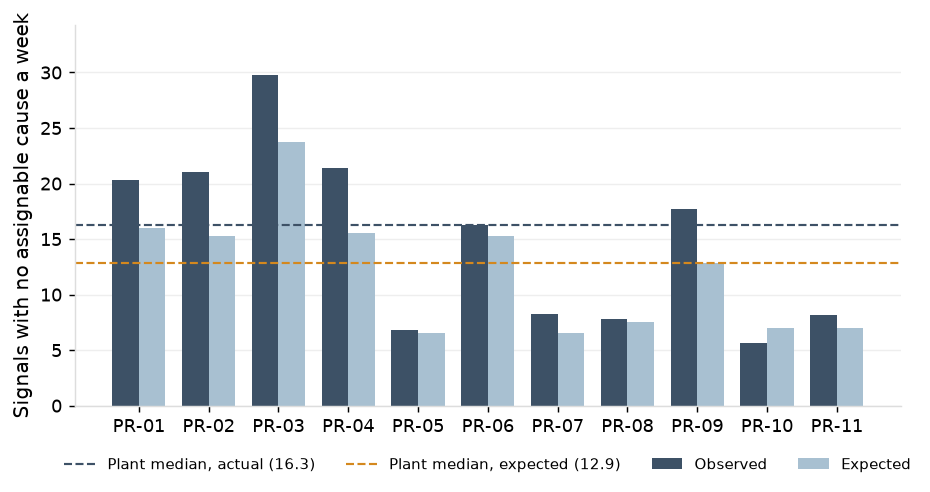
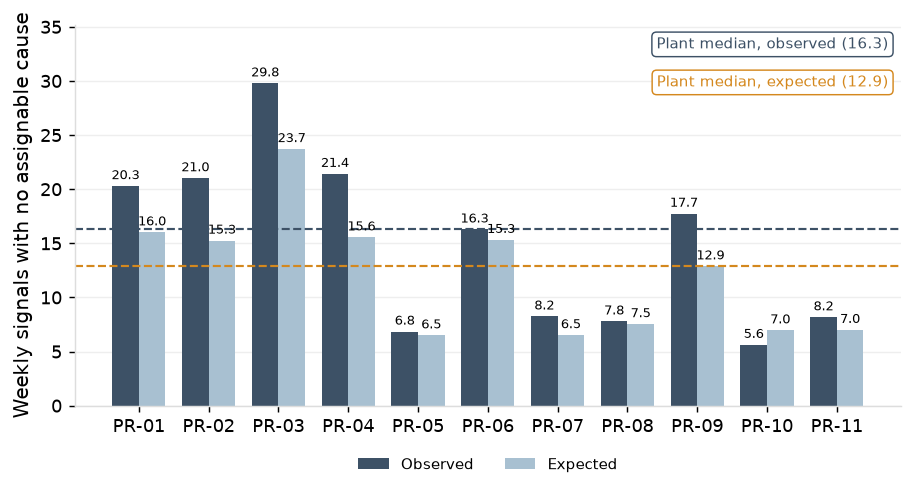
D1: retitled Review, 2.1 and 2.2 reworded, per-press medians as labels, Table 3 reordered

diff --git a/stamping_spc_program/docs/reports/control_chart_design.html b/stamping_spc_program/docs/reports/control_chart_design.html
@@ -1,6 +1,6 @@
 <!DOCTYPE html>
 <html lang="en"><head><meta charset="utf-8"><meta name="viewport" content="width=device-width, initial-scale=1">
-<title>Report: SPC Chart Design &amp; Performance</title><style>
+<title>Review: SPC Chart Design &amp; Performance</title><style>
 :root { --brand: #3D5166; --accent: #6B8FA8; --text: #222222; --muted: #555555; --rule: #DDDDDD; }
 * { box-sizing: border-box; }
 body { margin: 0; background: #F4F5F7; color: var(--text); font-family: "Segoe UI", Helvetica, Arial, sans-serif;
@@ -54,9 +54,9 @@ nav.toc a.sub { font-size: 12px; padding-left: 22px; }
 }
 @media print { nav.toc { display: none; } .layout { display: block; max-width: none; padding: 0; } .content { max-width: none; padding: 0; } }
 </style></head>
-<body><div class="page-header"><h1>Report: SPC Chart Design &amp; Performance</h1><div class="sub">Created by Brian Davis, 2026</div></div>
+<body><div class="page-header"><h1>Review: SPC Chart Design &amp; Performance</h1><div class="sub">Created by Brian Davis, 2026</div></div>
 <div class="layout"><nav class="toc"><div class="toc-title">Contents</div><a href="#overview">1. Active SPC Charts</a><a href="#design">2. Chart Design</a><a class="sub" href="#chart-types">2.1 Chart Types</a><a class="sub" href="#measurement">2.2 Measurement systems</a><a class="sub" href="#limits">2.3 Control Limits</a><a href="#performance">3. Chart Performance</a><a class="sub" href="#signals">3.1 Signals and causes</a><a class="sub" href="#expected">3.2 Observed against expected</a></nav>
-<main class="content"><style>table.data tr.warn td { background: #FBEBD3; } .subsection { margin: 34px 0 14px; border-left: 3px solid #54C0E8; padding-left: 12px; } .subsection-label { font-size: 10px; letter-spacing: 2px; text-transform: uppercase; color: #8093A4; font-weight: 700; margin-bottom: 2px; } .subsection h3 { font-size: 16px; font-weight: 600; letter-spacing: .2px; margin: 0; } h4.within { font-size: 15px; font-weight: 700; color: var(--brand); margin: 26px 0 8px; } h5.within { font-size: 13.5px; font-weight: 700; color: var(--brand); margin: 18px 0 4px; }</style>
+<main class="content"><style>table.data tr.warn td { background: #FBEBD3; } .subsection { margin: 34px 0 14px; border-left: 3px solid #54C0E8; padding-left: 12px; } .subsection-label { font-size: 10px; letter-spacing: 2px; text-transform: uppercase; color: #8093A4; font-weight: 700; margin-bottom: 2px; } .subsection h3 { font-size: 16px; font-weight: 600; letter-spacing: .2px; margin: 0; } h4.within { font-size: 15px; font-weight: 700; color: var(--brand); margin: 26px 0 8px; } h5.within { font-size: 13.5px; font-weight: 700; color: var(--brand); margin: 18px 0 4px; } main.content > h2#overview { margin-top: 0; }</style>
 <h2 id="overview">1. Active SPC Charts</h2>
 <p>As of June 2026, there are 1,427 active SPC charts across the 11 presses. 1,380 are on part characteristics in five classes: cut geometry (hole position and part length and width), formed characteristics (formed heights and bend angles), hole diameter, sheared edges, and flatness. 897 (65%) of these are variable charts, plotting dimensions read off a gauge; 483 (35%) are attribute charts, tallying pass/fail pin checks on hole diameters and burr checks on sheared edges. The other 47 charts are on press tonnage: an EWMA on each press's per-stroke total and a chart on each load channel's share of it.</p>
 <div class='chart-title'>Active SPC charts</div><img alt="Active SPC charts by control target" src="../figures/d1_charts_in_force_by_class.png">
@@ -68,7 +68,7 @@ nav.toc a.sub { font-size: 12px; padding-left: 22px; }
 <div class='chart-title'>Subgroup Measurements per week by press</div><img alt="Subgroup measurements per week by press" src="../figures/d1_routine_subgroups_by_press.png">
 <h2 id="design">2. Chart Design</h2>
 <div class="subsection" id="chart-types"><div class="subsection-label">Section 2.1</div><h3>Chart Types</h3></div>
-<p>Six different chart types are used for the SPC charts. X-bar and R, three-way, and regression charts are used for the variable charts on part characteristics (cut geometry, formed characteristics, hole diameter, and flatness), and selection is based on the underlying variance of the characteristic. EWMA and channel-share charts are used for the press's per-stroke tonnage. p charts are used for the attribute checks (pin checks on hole diameters and burr checks on sheared edges).</p>
+<p>Six different chart types are used for the SPC charts. X-bar and R, three-way, and regression charts are used for the variable charts on part characteristics (cut geometry, formed characteristics, hole diameter, and flatness), and their selection is based on the underlying variance of the characteristic. P charts are used for the attribute checks (pin checks on hole diameters and burr checks on sheared edges). EWMA and channel-share charts are used for the press's per-stroke tonnage.</p>
 <h5 class="within">X-bar and R (cut geometry and flatness; 474 charts)</h5>
 <p>Cut geometry and flatness vary piece to piece (97.5% and 98.4% of variance is within subgroups) and so use standard X-bar and R charts whose limits are set from the spread within subgroups.</p>
 <div class='chart-title'>Variance components by class: cut geometry and flatness</div><img alt="Variance components by class: cut geometry and flatness" src="../figures/d1_variance_cut_geometry_flatness.png">
@@ -85,7 +85,7 @@ nav.toc a.sub { font-size: 12px; padding-left: 22px; }
 <p>Only Rule #1 is applied to these charts to produce signals, because the coil offset produces data that is not independent, and so Rules #2-4 can't be used. In the sample below, the level steps at each coil change and stays inside the individuals limits, representing a stable process.</p>
 <div class='chart-title'>Sample three-way chart: C-36680-06, bend angle F</div><img alt="Three-way chart, C-36680-06" src="../figures/d1_sample_three_way.png">
 <h5 class="within">Regression (hole diameter; 23 charts)</h5>
-<p>On hole diameters, 36.1% of the variance is from tool wear, as the hole grows while the punch edge wears down between sharpenings. Regression charts are used to account for this predictable change so they signal only on variation that is not wear.</p>
+<p>On hole diameters, 36.1% of the variance is from tool wear, as the hole grows while the punch edge wears down between sharpenings. Regression charts are used to account for this predictable change so they signal only on variation that is not related to tool wear.</p>
 <div class='chart-title'>Variance components by class: hole diameter</div><img alt="Variance components by class: hole diameter" src="../figures/d1_variance_hole_diameter.png">
 <p>The regression chart plots each subgroup's mean against a center line that rises with the shots since the die was last sharpened, and control limits that rise with it. The center line is the tool wear line: a regression of hole diameter on shots since sharpening, fitted over the subgroups from the die's earlier sharpening intervals. The control limits sit three residual sigmas on either side of it. At each sharpening the line returns to its starting diameter, and the first 25 subgroups are used to re-fit the line and limit width.</p>
 <p>All four rules are applied to the regression charts to determine whether it produces a signal that the process has potentially changed. The chart below shows no run-rule patterns, indicating a stable process.</p>
@@ -99,7 +99,7 @@ nav.toc a.sub { font-size: 12px; padding-left: 22px; }
 <p>Control limits are set at each run start from the first 500 production strokes, 2,219 times in the year. These charts produce a signal whenever the EWMA or a single channel's share crosses the limit. The chart below shows a stable process.</p>
 <div class='chart-title'>Sample per-stroke tonnage charts: run R26-00555, PR-06</div><img alt="Per-stroke tonnage charts, run R26-00555" src="../figures/d1_sample_per_stroke.png">
 <div class="subsection" id="measurement"><div class="subsection-label">Section 2.2</div><h3>Measurement systems</h3></div>
-<p>Each part has its own check fixture at the press: 180 fixtures read 800 charts across cut geometry (369), formed characteristics (399) and flatness (32). 29 calipers at the presses read 74 cut-geometry charts, and 12 indicators read the 23 hole-diameter regression charts. The pin checks use 35 pin gauges, and the burr check is the operator's, with burr height measured on the laboratory gauge. Every variable chart runs on a gauge in gating status, with a current calibration and a gauge study on file: 825 charts on a study of the gauge itself and 72 on a study of the gauge type at the press. Gauge status is reported each quarter in the <a href="spc_quarterly_review_2026_q2.html">SPC Quarterly Review</a>; this section gives the year's position.</p>
+<p>Each part has its own check fixture at the press: 180 fixtures read 800 charts across cut geometry (369), formed characteristics (399) and flatness (32). 29 calipers at the presses read 74 cut-geometry charts, and 12 indicators read the 23 hole-diameter regression charts. The pin checks use 35 pin gauges, and the burr check is the operator's, with burr height measured on the laboratory gauge.</p>
 <p><strong>Accuracy and stability.</strong> 765 calibrations in the year: 756 passed, 8 were adjusted and one, F-14026, was rebuilt. The check fixtures were verified against their masters 4,102 times and failed once.</p>
 <div class='chart-title'>Table 1: Calibration and verification in the year</div><table class="data"><thead><tr><th>Gauge type</th><th>Calibrations or verifications</th><th>Passed</th><th>Adjusted</th><th>Rebuilt</th><th>Failed</th></tr></thead><tbody><tr><td class="">Check fixtures</td><td class="num">371</td><td class="num">365</td><td class="num">5</td><td class="num">1</td><td class="num"></td></tr><tr><td class="">Calipers</td><td class="num">40</td><td class="num">40</td><td class="num">0</td><td class="num">0</td><td class="num"></td></tr><tr><td class="">Indicators</td><td class="num">117</td><td class="num">117</td><td class="num">0</td><td class="num">0</td><td class="num"></td></tr><tr><td class="">Pin gauges</td><td class="num">194</td><td class="num">191</td><td class="num">3</td><td class="num">0</td><td class="num"></td></tr><tr><td class="">Other gauges (burr gauge, hardness tester, micrometer, plug)</td><td class="num">43</td><td class="num">43</td><td class="num">0</td><td class="num">0</td><td class="num"></td></tr><tr><td class="">Fixture verifications against the master</td><td class="num">4,102</td><td class="num">4,101</td><td class="num"></td><td class="num"></td><td class="num">1</td></tr></tbody></table>
 <p><strong>Precision.</strong> 205 of the 221 (93%) variable-chart gauges have a gauge R&amp;R (%GRR) under the 10% threshold. 16 (7%) are between 10% and 30%, and each has a restudy scheduled. None of the gauges sit above the 30% tolerance threshold. One check fixture (F-14026) was rebuilt over the past year, shown below. It failed its daily verification, read 16.7% on restudy, and was rebuilt and restudied at 5.3% two weeks later.</p>
@@ -110,7 +110,7 @@ nav.toc a.sub { font-size: 12px; padding-left: 22px; }
 <div class='chart-title'>Burr-check operator kappa</div><img alt="Burr-check operator kappa" src="../figures/d1_burr_check_kappa.png">
 <div class="subsection" id="limits"><div class="subsection-label">Section 2.3</div><h3>Control Limits</h3></div>
 <p>Over the past 12 months, 254 new control limits were issued on the 897 variable charts (683 run on limits issued before the record, 214 on limits issued in the year). At the annual review in January 2026, 74 charts were issued new limits.</p>
-<div class='chart-title'>New Control Limits Set by Trigger, Last 12 Months</div><img alt="New control limits set by trigger, last 12 months" src="../figures/d1_recalculations_by_month_and_trigger.png">
+<div class='chart-title'>New Control Limits Set by Trigger, Last 12 Months</div><img alt="New control limits set by trigger, last 12 months" src="../figures/d1_new_limits_by_trigger.png">
 <p>Verification held the limits across 408 sharpenings and failed on 33 of them (8.1%), inside its design range of 3% to 9%; by chart, 34 of 1,100 X-bar and R (3.1%), 2 of 67 regression (3.0%) and 3 of 141 three-way after rebuild (2.1%). The passes sit at a median 0.21 sigma from center, and the chance of a false failure is under 0.001%, so each failure is a die that came back at a different level.</p>
 <div class='chart-title'>Table 2: Verifications of limits held across a die event</div><table class="data"><thead><tr><th>Verification</th><th>Verifications</th><th>Failed</th><th>Failure rate</th></tr></thead><tbody><tr><td class="">X-bar and R, after sharpening</td><td class="num">1,100</td><td class="num">34</td><td class="num"><strong>3.1%</strong></td></tr><tr><td class="">Regression, after sharpening</td><td class="num">67</td><td class="num">2</td><td class="num"><strong>3.0%</strong></td></tr><tr><td class="">Three-way, after rebuild</td><td class="num">141</td><td class="num">3</td><td class="num"><strong>2.1%</strong></td></tr><tr><td class="">By sharpening, any chart of the die</td><td class="num">408</td><td class="num">33</td><td class="num"><strong>8.1%</strong></td></tr></tbody></table><div class="caption">Design range for the sharpening row 3% to 9%.</div>
 <h2 id="performance">3. Chart Performance</h2>
@@ -118,8 +118,8 @@ nav.toc a.sub { font-size: 12px; padding-left: 22px; }
 <p>SPC charts are designed to signal when the process may have changed and to stay quiet when it has not. A signal is a point beyond a control limit or a run-rule pattern (2.1). It sends the operator to look for a special cause: a specific, identifiable source of variation outside the process's normal running, corrected at its source once found, whether the die, the material, the gauge or the record. A signal with no assignable cause is one where the investigation finds nothing and so is deemed a chance signal from the process's normal variation. Whether the processes are good enough for the drawing is a capability question, reported quarterly in the <a href="spc_quarterly_review_2026_q2.html">Quarterly Capability &amp; SPC Review</a>: in April to June 2026, 93 of 100 critical characteristics ran above Ppk 1.33.</p>
 <p>Over the past 12 months, the variable characteristic charts (X-bar and R, three-way, and regression) signaled 12,185 times: 42 were the first signal of a special-cause event, 1,617 followed on from those 42 events (i.e., the charts kept producing signals from the same special cause event), and 10,526 had no assignable cause. The per-stroke tonnage charts signaled 520 times, stopping the press each time, 427 with a special cause finding and 93 with no assignable cause. The attribute checks carry no special causes: the burr checks recorded 268 nonconforming pieces in 219,535 (0.12%) and the pin checks 278 in 324,225 (0.09%).</p>
 <div class='chart-title'>SPC Chart Signals and Causes, Past 12 Months</div><img alt="SPC chart signals and causes, past 12 months" src="../figures/d1_charts_flagged_plant.png">
-<p>469 signals were traced to a special cause over the past year. The variable characteristic charts most commonly found special causes related to a die at a new level after sharpening or rebuild (33) and faults related to strip misfeed, slug pull, gauge zero, or lubricant issue (6).</p>
-<div class='chart-title'>Table 3: Special Causes With the Charts that Signaled Them</div><table class="data"><thead><tr><th>What was caught</th><th>Chart</th><th>Events</th><th>Alarms</th></tr></thead><tbody><tr><td class="">Die at a new level after sharpening or rebuild</td><td class="">X-bar and R, three-way, regression</td><td class=""><strong>33</strong></td><td class="">1,620</td></tr><tr><td class="">Fixture drift (F-14026)</td><td class="">X-bar and R, three-way</td><td class=""><strong>1</strong></td><td class="">30</td></tr><tr><td class="">Strip misfeed, slug pulling, gauge zeroing, lubricant</td><td class="">X-bar and R, three-way</td><td class=""><strong>6</strong></td><td class="">7</td></tr><tr><td class="">Sharpening logged at the wrong count (PR-06)</td><td class="">regression</td><td class=""><strong>1</strong></td><td class="">1</td></tr><tr><td class="">Soft coil (C-15731-07)</td><td class="">coil-change</td><td class=""><strong>1</strong></td><td class="">1</td></tr><tr><td class="">Slug pulling, worn and chipped punches</td><td class="">per-stroke EWMA and channel share</td><td class=""><strong>427</strong></td><td class="">427</td></tr></tbody></table><div class="caption">10,499 routine signals and 27 coil-change signals had no assignable cause.</div>
+<p>469 signals were traced to a special cause over the past year. The variable characteristic charts most commonly found special causes related to a die at a new level after sharpening or rebuild (33) and faults related to strip misfeed, slug pull, gauge zeroing, or lubricant issues (6).</p>
+<div class='chart-title'>Table 3: Special Causes With the Charts that Signaled Them</div><table class="data"><thead><tr><th>What was caught</th><th>Chart</th><th>Events</th><th>Alarms</th></tr></thead><tbody><tr><td class="">Die at a new level after sharpening or rebuild</td><td class="">X-bar and R, three-way, regression</td><td class=""><strong>33</strong></td><td class="">1,620</td></tr><tr><td class="">Fixture drift (F-14026)</td><td class="">X-bar and R, three-way</td><td class=""><strong>1</strong></td><td class="">30</td></tr><tr><td class="">Strip misfeed, slug pulling, gauge zeroing, lubricant</td><td class="">X-bar and R, three-way</td><td class=""><strong>6</strong></td><td class="">7</td></tr><tr><td class="">Soft coil (C-15731-07)</td><td class="">three-way</td><td class=""><strong>1</strong></td><td class="">1</td></tr><tr><td class="">Sharpening logged at the wrong count (PR-06)</td><td class="">regression</td><td class=""><strong>1</strong></td><td class="">1</td></tr><tr><td class="">Slug pulling, worn and chipped punches</td><td class="">per-stroke EWMA and channel share</td><td class=""><strong>427</strong></td><td class="">427</td></tr></tbody></table>
 <p>The per-stroke tonnage charts produced 427 signals that were found to have a special cause. Of them, 274 (64%) were due to slug pulling, 82 (19%) due to a worn punch, and 71 (17%) due to a chipped punch.</p>
 <div class='chart-title'>Per-stroke tonnage chart signals, by finding</div><img alt="Per-stroke tonnage chart signals, by finding" src="../figures/d1_stops_by_finding_and_chart.png">
 <div class="subsection" id="expected"><div class="subsection-label">Section 3.2</div><h3>Observed against expected</h3></div>

diff --git a/stamping_spc_program/analytics/reports/control_chart_design.py b/stamping_spc_program/analytics/reports/control_chart_design.py
@@ -72,7 +72,8 @@ def build():
            ".subsection-label { font-size: 10px; letter-spacing: 2px; text-transform: uppercase; color: #8093A4; font-weight: 700; margin-bottom: 2px; } "
            ".subsection h3 { font-size: 16px; font-weight: 600; letter-spacing: .2px; margin: 0; } "
            "h4.within { font-size: 15px; font-weight: 700; color: var(--brand); margin: 26px 0 8px; } "
-           "h5.within { font-size: 13.5px; font-weight: 700; color: var(--brand); margin: 18px 0 4px; }</style>")
+           "h5.within { font-size: 13.5px; font-weight: 700; color: var(--brand); margin: 18px 0 4px; } "
+           "main.content > h2#overview { margin-top: 0; }</style>")
 
     # ── read once ────────────────────────────────────────────────────────────
     design = query("select parameter, value from marts.mart_chart_design order by parameter").set_index("parameter")["value"]
@@ -850,10 +851,7 @@ def build():
                  f"({n(int(fxc['formed']), 'mart_charts_in_force: formed charts on a check fixture', was='399')}) and flatness ({n(int(fxc['flatness']), 'mart_charts_in_force: flatness charts on a check fixture', was='32')}). "
                  f"{n(ca_['gauge_id'].nunique(), 'mart_charts_in_force with stg_calibration__gauges: calipers on variable charts', was='29')} calipers at the presses read {n(len(ca_), 'mart_charts_in_force: charts on a caliper', was='74')} cut-geometry charts, and "
                  f"{n(in_['gauge_id'].nunique(), 'mart_charts_in_force with stg_calibration__gauges: indicators on variable charts', was='12')} indicators read the {n(len(in_), 'mart_charts_in_force: regression charts on an indicator', was='23')} hole-diameter regression charts. "
-                 f"The pin checks use {n(pins_['gauge_id'].nunique(), 'mart_charts_in_force.gauge_id: pins, distinct', was='35')} pin gauges, and the burr check is the operator's, with burr height measured on the laboratory gauge. "
-                 f"Every variable chart runs on a gauge in gating status, with a current calibration and a gauge study on file: {n(vb_.get('this gauge', 0), 'mart_charts_in_force.study_basis: this gauge', was='825')} charts on a study of the gauge itself and "
-                 f"{n(vb_.get('gauge type at the press', 0), 'mart_charts_in_force.study_basis: gauge type at the press', was='72')} on a study of the gauge type at the press. "
-                 "Gauge status is reported each quarter in the <a href=\"spc_quarterly_review_2026_q2.html\">SPC Quarterly Review</a>; this section gives the year's position."))
+                 f"The pin checks use {n(pins_['gauge_id'].nunique(), 'mart_charts_in_force.gauge_id: pins, distinct', was='35')} pin gauges, and the burr check is the operator's, with burr height measured on the laboratory gauge."))
     cal_ = query("""select c.gauge_id, c.result, g.type from staging.stg_calibration__calibrations c join staging.stg_calibration__gauges g using (gauge_id)
                     where c.done >= '2025-07-01' and c.done < '2026-07-01' order by c.calibration_id""")
     cr_ = cal_["result"].value_counts(); assert set(cr_.index) <= {"pass", "adjusted", "rebuilt"}
@@ -932,8 +930,8 @@ def build():
     types_ = ["X-bar and R", "three-way", "regression", "p", "EWMA", "channel share"]
     assert set(cif["chart_type"]) == {"Xbar-R", "three-way (I-MR-R)", "tool-wear", "p"} and n_ps == len(presses) + int(presses["load_cell_channels"].sum())
     o22.append(P(f"{txt('Six', 'mart_charts_in_force chart types (X-bar and R, three-way, regression, p) and the two per-stroke charts (EWMA, channel share)', was='Six')} different chart types are used for the SPC charts. "
-                 "X-bar and R, three-way, and regression charts are used for the variable charts on part characteristics (cut geometry, formed characteristics, hole diameter, and flatness), and selection is based on the underlying variance of the characteristic. "
-                 "EWMA and channel-share charts are used for the press's per-stroke tonnage. p charts are used for the attribute checks (pin checks on hole diameters and burr checks on sheared edges)."))
+                 "X-bar and R, three-way, and regression charts are used for the variable charts on part characteristics (cut geometry, formed characteristics, hole diameter, and flatness), and their selection is based on the underlying variance of the characteristic. "
+                 "P charts are used for the attribute checks (pin checks on hole diameters and burr checks on sheared edges). EWMA and channel-share charts are used for the press's per-stroke tonnage."))
     VC_ROWS = {c_: [("Within subgroup", med.at[c_, "within_share_wear_first"]), ("Between subgroups", med.at[c_, "between_subgroups_share_wear_first"]),
                     ("Between coils", med.at[c_, "between_coils_share_wear_first"]), ("Tool wear", med.at[c_, "wear_share"])] for c_ in ("cut geometry", "formed", "hole diameter", "flatness")}
 
@@ -988,7 +986,7 @@ def build():
     o22.append(sample(SC.three_way(dt, mt), f"Sample three-way chart: {TS[0]}, {mt['name']}", [(f"{dt['ucl_mean'].iloc[-1]:.3f}", f"int_characteristic_history.ucl_mean, {TS[0]}"), (f"{dt['lcl_mean'].iloc[-1]:.3f}", f"int_characteristic_history.lcl_mean, {TS[0]}")]))
     # regression
     o22.append(H5(f"Regression (hole diameter; {n(int(ctn.get('tool-wear', 0)), 'mart_charts_in_force: tool-wear (regression) charts', was='23')} charts)"))
-    o22.append(P(f"On hole diameters, {pct(med.at['hole diameter', 'wear_share'], 'mart_variance_components.wear_share, hole diameter, median', was='36.1%')} of the variance is from tool wear, as the hole grows while the punch edge wears down between sharpenings. Regression charts are used to account for this predictable change so they signal only on variation that is not wear."))
+    o22.append(P(f"On hole diameters, {pct(med.at['hole diameter', 'wear_share'], 'mart_variance_components.wear_share, hole diameter, median', was='36.1%')} of the variance is from tool wear, as the hole grows while the punch edge wears down between sharpenings. Regression charts are used to account for this predictable change so they signal only on variation that is not related to tool wear."))
     o22.append(vc_fig(162, [("Hole diameter", VC_ROWS["hole diameter"])], "d1_variance_hole_diameter", "Variance components by class: hole diameter"))
     o22.append(P(f"The regression chart plots each subgroup's mean against a center line that rises with the shots since the die was last sharpened, and control limits that rise with it. "
                  "The center line is the tool wear line: a regression of hole diameter on shots since sharpening, fitted over the subgroups from the die's earlier sharpening intervals. The control limits sit three residual sigmas on either side of it. "
@@ -1065,7 +1063,7 @@ def build():
         for t_ in [c_ for c_ in bm_.columns if c_ != "issued_month"]:
             if r_[t_]:
                 pg.figval(30, f"{int(r_[t_])}", f"mart_limit_recalculations: {t_}, {r_['issued_month']}")
-    pg.figure(FIG.recalculations(bm_, labels=True), "Figure 30: New Control Limits Set by Trigger, Last 12 Months"); entries[keys[-1]] = pg.body[-1]; o22.append(keys[-1])
+    pg.figure(FIG.recalculations(bm_, labels=True, name="d1_new_limits_by_trigger"), "Figure 30: New Control Limits Set by Trigger, Last 12 Months"); entries[keys[-1]] = pg.body[-1]; o22.append(keys[-1])
 
     o22.append(P(f"Verification held the limits across {n(len(shp), 'mart_limit_verifications: sharpenings', was='408')} sharpenings and failed on {n(int(shp.sum()), 'mart_limit_verifications: sharpenings with a failure', was='33')} of them ({pct(shp.mean(), 'share of sharpenings failed', was='8.1%')}), inside its design range of 3% to 9%; by chart, "
                  f"{n(x1.failed, 'mart_limit_verifications: X-bar and R failed', was='34')} of {n(x1.verifications, 'mart_limit_verifications: X-bar and R after sharpening', was='1,100')} X-bar and R ({pct(x1.rate, 'X-bar and R failure rate', was='3.1%')}), {n(x2.failed, 'mart_limit_verifications: tool-wear failed', was='2')} of "
@@ -1146,7 +1144,7 @@ def build():
     assert N_ev == n_first + len(st_find) and list(vcause.sort_values(ascending=False, kind="stable").index[:2]) == ["lvl", "oth"] and vcause.iloc[2:].max() < vcause["oth"]
     o23.append(P(f"{n(N_ev, 'special-cause events: level-change die returns, fixture-drift run, other-cause runs, soft coil, wrong count, tonnage stops with a finding', was='469')} signals were traced to a special cause over the past year. "
                  f"The variable characteristic charts most commonly found special causes related to a die at a new level after sharpening or rebuild ({n(ev['lvl'], 'mart_signals: level-change die returns (die and sharpening interval)', was='33')}) "
-                 f"and faults related to strip misfeed, slug pull, gauge zero, or lubricant issue ({n(ev['oth'], 'mart_signals: runs, strip misfeed, slug pulling, gauge zero, lubricant', was='6')})."))
+                 f"and faults related to strip misfeed, slug pull, gauge zeroing, or lubricant issues ({n(ev['oth'], 'mart_signals: runs, strip misfeed, slug pulling, gauge zero, lubricant', was='6')})."))
     ts_ = pd.DataFrame([
         {"what": "Die at a new level after sharpening or rebuild", "chart": txt(charts_of(lvl), 'mart_signals.chart_type, level-change alarms', was='X-bar and R, three-way, regression'),
          "events": n(ev["lvl"], 'mart_signals: level-change die returns (die and sharpening interval)', was='33'), "alarms": n(len(lvl), 'mart_signals: alarms, level change', was='1,620')},
@@ -1154,14 +1152,13 @@ def build():
          "events": n(ev["fx"], 'mart_signals: runs, fixture drift', was='1'), "alarms": n(len(fx), 'mart_signals: alarms, fixture drift', was='30')},
         {"what": "Strip misfeed, slug pulling, gauge zeroing, lubricant", "chart": txt(charts_of(oth), 'mart_signals.chart_type, other causes', was='X-bar and R, three-way'),
          "events": n(ev["oth"], 'mart_signals: runs, strip misfeed, slug pulling, gauge zero, lubricant', was='6'), "alarms": n(len(oth), 'mart_signals: alarms, other causes', was='7')},
+        {"what": f"Soft coil ({txt(soft['characteristic_id'].iloc[0], 'mart_signals.characteristic_id, soft coil', was='C-15731-07')})", "chart": "three-way",
+         "events": n(ev["soft"], 'mart_signals: coils, soft coil', was='1'), "alarms": n(len(soft), 'mart_signals: alarms, soft coil', was='1')},
         {"what": f"Sharpening logged at the wrong count ({txt(wc['press_id'].iloc[0], 'mart_signals.press_id, sharpening logged at the wrong count', was='PR-06')})", "chart": txt(charts_of(wc), 'mart_signals.chart_type, sharpening logged at the wrong count', was='regression'),
          "events": n(ev["wc"], 'mart_signals: wrong count', was='1'), "alarms": n(len(wc), 'mart_signals: alarms, wrong count', was='1')},
-        {"what": f"Soft coil ({txt(soft['characteristic_id'].iloc[0], 'mart_signals.characteristic_id, soft coil', was='C-15731-07')})", "chart": "coil-change",
-         "events": n(ev["soft"], 'mart_signals: coils, soft coil', was='1'), "alarms": n(len(soft), 'mart_signals: alarms, soft coil', was='1')},
         {"what": "Slug pulling, worn and chipped punches", "chart": "per-stroke EWMA and channel share",
          "events": n(ev["stops"], 'mart_per_stroke_stops: stops on slug pulling, worn and chipped punches', was='427'), "alarms": n(ev["stops"], 'mart_per_stroke_stops: stops, as alarms', was='427')}])
-    pg.body_table("Table 60: Special Causes With the Charts that Signaled Them", ts_, {"what": "What was caught", "chart": "Chart", "events": "Events", "alarms": "Alarms"}, bold_cols=("Events",),
-                  caption=f"{n(int((~rt_['assignable_cause']).sum()), 'mart_signals: routine alarms closed as no cause found', was='10,499')} routine signals and {n(cc_ncf, 'mart_signals: coil-change signals closed as no cause found', was='27')} coil-change signals had no assignable cause.")
+    pg.body_table("Table 60: Special Causes With the Charts that Signaled Them", ts_, {"what": "What was caught", "chart": "Chart", "events": "Events", "alarms": "Alarms"}, bold_cols=("Events",))
     entries[keys[-1]] = pg.body[-1]; o23.append(keys[-1])
     fcl = st_find["finding_class"].value_counts()
     o23.append(P(f"The per-stroke tonnage charts produced {n(len(st_find), 'mart_per_stroke_stops: stops with a finding', was='427')} signals that were found to have a special cause. Of them, "
@@ -1262,7 +1259,7 @@ def build():
     toc = [("overview", "1. Active SPC Charts"),
            ("design", "2. Chart Design"), ("chart-types", "2.1 Chart Types", "sub"), ("measurement", "2.2 Measurement systems", "sub"), ("limits", "2.3 Control Limits", "sub"),
            ("performance", "3. Chart Performance"), ("signals", "3.1 Signals and causes", "sub"), ("expected", "3.2 Observed against expected", "sub")]
-    html = S.report_shell("Report: SPC Chart Design &amp; Performance", "", "", "\n".join(pg.body), toc)
+    html = S.report_shell("Review: SPC Chart Design &amp; Performance", "", "", "\n".join(pg.body), toc)
     out = S.DOCS / "reports"; out.mkdir(parents=True, exist_ok=True)
     (out / "control_chart_design.html").write_text(html, encoding="utf8", newline="\n")
     trace, off = pg.check()

diff --git a/stamping_spc_program/analytics/reports/design_figures.py b/stamping_spc_program/analytics/reports/design_figures.py
@@ -88,7 +88,7 @@ def phase1_baseline(b, centre, ucl, lcl, ucl_r):
 TRIGGER_COLOURS = {"rebuild": S.BRAND_BLUE, "annual review": S.AMBER, "tool-wear re-fit": S.ACCENT, "regression re-fit": S.ACCENT, "failed verification": S.RED, "repair": S.GREY, "chart change": S.GREEN}
 
 
-def recalculations(by_month, labels=False):
+def recalculations(by_month, labels=False, name="d1_recalculations_by_month_and_trigger"):
     f, ax = S.fig(h=3.8)
     months = list(by_month["issued_month"]); bottom = np.zeros(len(months))
     for t in [c for c in TRIGGER_COLOURS if c in by_month.columns]:
@@ -106,7 +106,7 @@ def recalculations(by_month, labels=False):
             ax.text(i, t + max(bottom) * 0.012, f"{int(t)}", ha="center", va="bottom", fontsize=8.5)
         ax.set_ylim(0, max(bottom) * 1.07)
     ax.set_ylabel("New control limits set" if labels else "New limit sets"); ax.legend(frameon=False, ncol=4, loc="upper center", bbox_to_anchor=(0.5, 1.14))
-    return S.save(f, "d1_recalculations_by_month_and_trigger", "New control limits set by trigger, last 12 months" if labels else "Recalculations by month and trigger")
+    return S.save(f, name, "New control limits set by trigger, last 12 months" if labels else "Recalculations by month and trigger")
 
 
 def tool_wear_chart(g, centre, slope_per_100k, half_width, usl, lsl):
@@ -341,11 +341,18 @@ def no_cause_by_press(lp, med_obs, med_exp):
     x = np.arange(len(lp)); w = 0.38
     ax.bar(x - w / 2, S.sig(lp["observed_per_week"]), width=w, color=S.BRAND_BLUE, label="Observed")
     ax.bar(x + w / 2, S.sig(lp["alarms_per_week"]), width=w, color=S.LIGHT_BLUE, label="Expected")
-    ax.axhline(med_obs, color=S.BRAND_BLUE, linestyle="--", linewidth=1.2, label=f"Plant median, actual ({med_obs:.1f})")
-    ax.axhline(med_exp, color=S.AMBER, linestyle="--", linewidth=1.2, label=f"Plant median, expected ({med_exp:.1f})")
-    ax.set_xticks(x); ax.set_xticklabels(lp["press_id"]); ax.set_ylabel("Signals with no assignable cause a week")
-    ax.set_ylim(0, max(lp["observed_per_week"].max(), lp["alarms_per_week"].max()) * 1.15)
-    ax.legend(frameon=False, ncol=4, fontsize=8.5, loc="upper center", bbox_to_anchor=(0.5, -0.1))
+    top = max(lp["observed_per_week"].max(), lp["alarms_per_week"].max())
+    for i, (o, e) in enumerate(zip(lp["observed_per_week"], lp["alarms_per_week"])):
+        ax.text(i - w / 2, o + top * 0.012, f"{o:.1f}", ha="center", va="bottom", fontsize=7)
+        ax.text(i + w / 2, e + top * 0.012, f"{e:.1f}", ha="center", va="bottom", fontsize=7)
+    ax.axhline(med_obs, color=S.BRAND_BLUE, linestyle="--", linewidth=1.2)
+    ax.axhline(med_exp, color=S.AMBER, linestyle="--", linewidth=1.2)
+    for k, (txt, colour) in enumerate(((f"Plant median, observed ({med_obs:.1f})", S.BRAND_BLUE), (f"Plant median, expected ({med_exp:.1f})", S.AMBER))):
+        ax.text(0.985, 0.97 - 0.1 * k, txt, transform=ax.transAxes, ha="right", va="top", fontsize=8.5, color=colour,
+                bbox=dict(boxstyle="round,pad=0.3", facecolor="white", edgecolor=colour, linewidth=0.8))
+    ax.set_xticks(x); ax.set_xticklabels(lp["press_id"]); ax.set_ylabel("Weekly signals with no assignable cause")
+    ax.set_ylim(0, top * 1.18)
+    ax.legend(frameon=False, ncol=2, fontsize=8.5, loc="upper center", bbox_to_anchor=(0.5, -0.1))
     return S.save(f, "d1_no_cause_observed_expected_by_press", "Signals with no assignable cause, observed vs. expected, per press and week")
 
 
